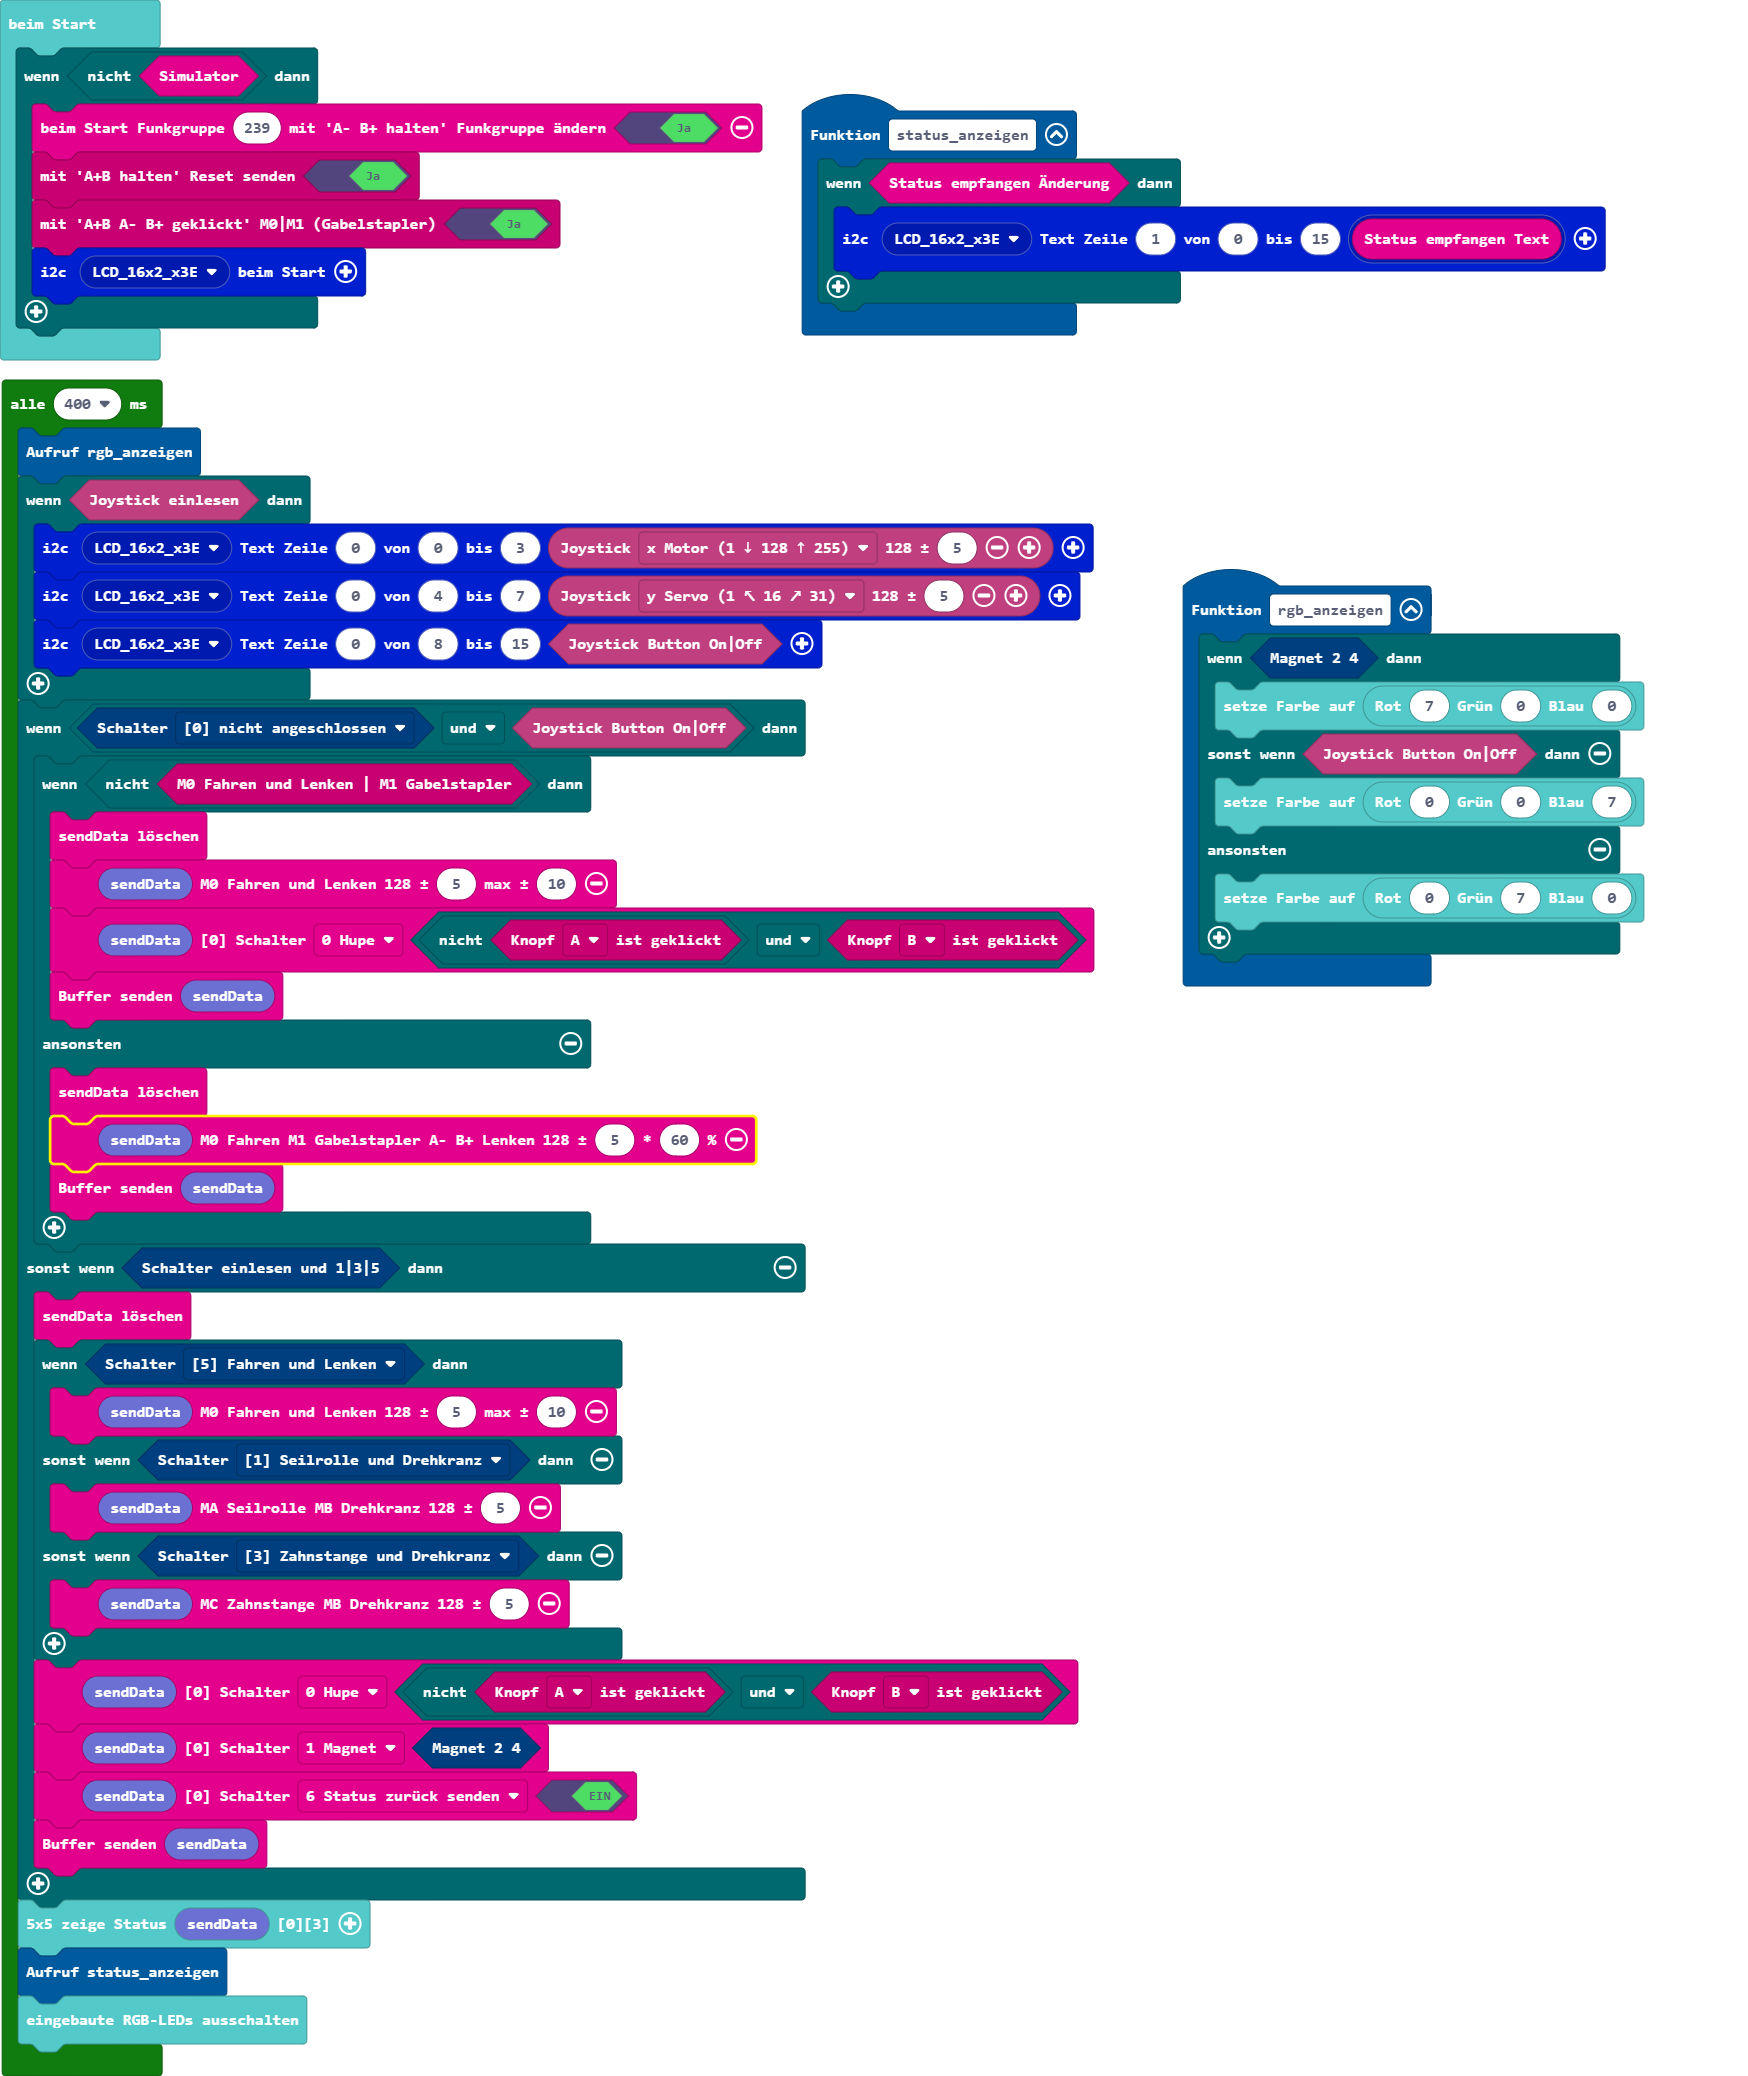
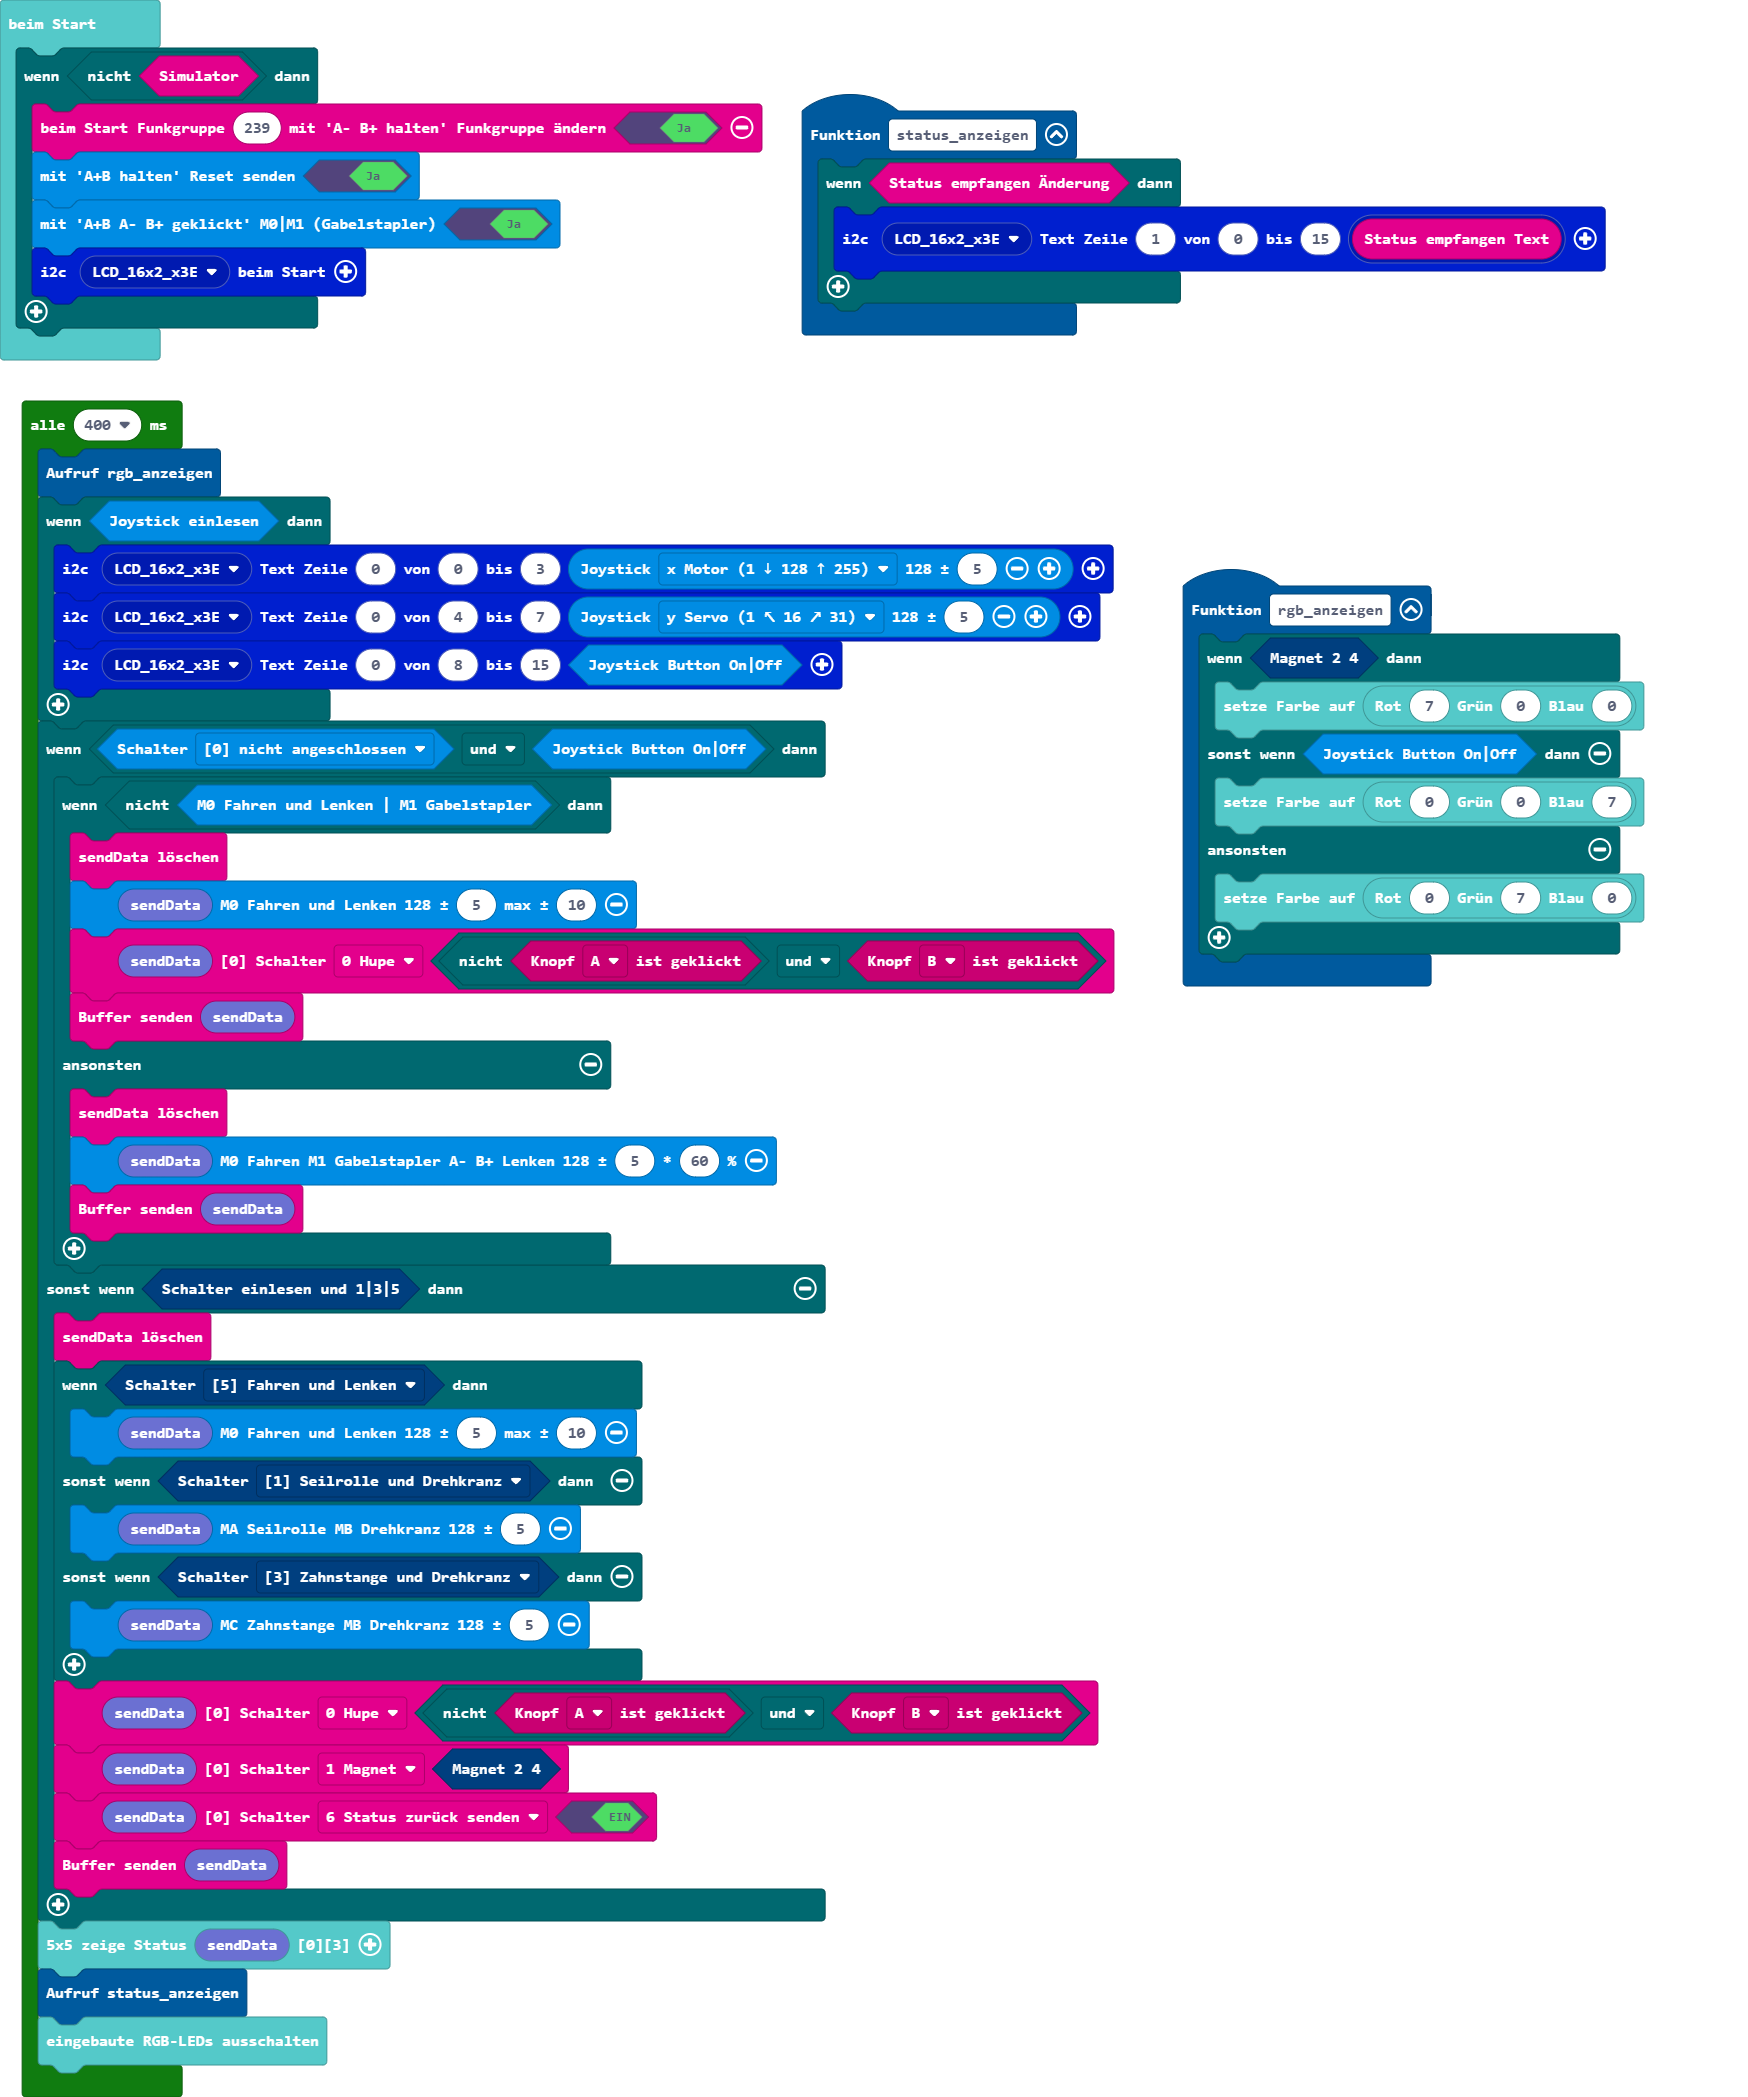
Aktualisiere pxt.json, main.blocks, main.ts

diff --git a/main.ts b/main.ts
@@ -6,7 +6,7 @@ function status_anzeigen () {
 function rgb_anzeigen () {
     if (radio.getMagnet()) {
         basic.setLedColor(basic.rgb(7, 0, 0))
-    } else if (radio.joystickButtonOn()) {
+    } else if (sender.joystickButtonOn()) {
         basic.setLedColor(basic.rgb(0, 0, 7))
     } else {
         basic.setLedColor(basic.rgb(0, 7, 0))
@@ -14,36 +14,36 @@ function rgb_anzeigen () {
 }
 if (!(radio.simulator())) {
     radio.beimStart(239, true)
-    radio.enableButtonSendReset(true)
-    radio.enableButtonMotor1(true)
+    sender.enableButtonSendReset(true)
+    sender.enableButtonMotor1(true)
     lcd16x2rgb.initLCD(lcd16x2rgb.lcd16x2_eADDR(lcd16x2rgb.eADDR_LCD.LCD_16x2_x3E))
 }
 loops.everyInterval(400, function () {
     rgb_anzeigen()
-    if (radio.joystickQwiic()) {
-        lcd16x2rgb.writeText(lcd16x2rgb.lcd16x2_eADDR(lcd16x2rgb.eADDR_LCD.LCD_16x2_x3E), 0, 0, 3, radio.joystickValue(radio.eJoystickValue.xmotor, 5))
-        lcd16x2rgb.writeText(lcd16x2rgb.lcd16x2_eADDR(lcd16x2rgb.eADDR_LCD.LCD_16x2_x3E), 0, 4, 7, radio.joystickValue(radio.eJoystickValue.servo16, 5))
-        lcd16x2rgb.writeText(lcd16x2rgb.lcd16x2_eADDR(lcd16x2rgb.eADDR_LCD.LCD_16x2_x3E), 0, 8, 15, radio.joystickButtonOn())
+    if (sender.joystickQwiic()) {
+        lcd16x2rgb.writeText(lcd16x2rgb.lcd16x2_eADDR(lcd16x2rgb.eADDR_LCD.LCD_16x2_x3E), 0, 0, 3, sender.joystickValue(sender.eJoystickValue.xmotor, 5))
+        lcd16x2rgb.writeText(lcd16x2rgb.lcd16x2_eADDR(lcd16x2rgb.eADDR_LCD.LCD_16x2_x3E), 0, 4, 7, sender.joystickValue(sender.eJoystickValue.servo16, 5))
+        lcd16x2rgb.writeText(lcd16x2rgb.lcd16x2_eADDR(lcd16x2rgb.eADDR_LCD.LCD_16x2_x3E), 0, 8, 15, sender.joystickButtonOn())
     }
-    if (radio.isSwitch(radio.eStatus.nicht_angeschlossen) && radio.joystickButtonOn()) {
-        if (!(radio.getGabelstapler())) {
+    if (sender.isSwitch(sender.eStatus.nicht_angeschlossen) && sender.joystickButtonOn()) {
+        if (!(sender.getGabelstapler())) {
             radio.fill_sendBuffer19()
-            radio.sendM0(radio.radio_sendBuffer19(), 5, 10)
+            sender.sendM0(radio.radio_sendBuffer19(), 5, 10)
             radio.setSchalter(radio.radio_sendBuffer19(), radio.e0Schalter.b0, !(input.buttonIsPressed(Button.A)) && input.buttonIsPressed(Button.B))
             radio.sendData(radio.radio_sendBuffer19())
         } else {
             radio.fill_sendBuffer19()
-            radio.sendM01(radio.radio_sendBuffer19(), 5, 60)
+            sender.sendM01(radio.radio_sendBuffer19(), 5, 60)
             radio.sendData(radio.radio_sendBuffer19())
         }
     } else if (radio.i2cReadSwitch()) {
         radio.fill_sendBuffer19()
         if (radio.isSwitch(radio.eStatus.fahren)) {
-            radio.sendM0(radio.radio_sendBuffer19(), 5, 10)
+            sender.sendM0(radio.radio_sendBuffer19(), 5, 10)
         } else if (radio.isSwitch(radio.eStatus.seilrolle)) {
-            radio.sendMAB(radio.radio_sendBuffer19(), 5)
+            sender.sendMAB(radio.radio_sendBuffer19(), 5)
         } else if (radio.isSwitch(radio.eStatus.zahnstange)) {
-            radio.sendMCB(radio.radio_sendBuffer19(), 5)
+            sender.sendMCB(radio.radio_sendBuffer19(), 5)
         }
         radio.setSchalter(radio.radio_sendBuffer19(), radio.e0Schalter.b0, !(input.buttonIsPressed(Button.A)) && input.buttonIsPressed(Button.B))
         radio.setSchalter(radio.radio_sendBuffer19(), radio.e0Schalter.b1, radio.getMagnet())
